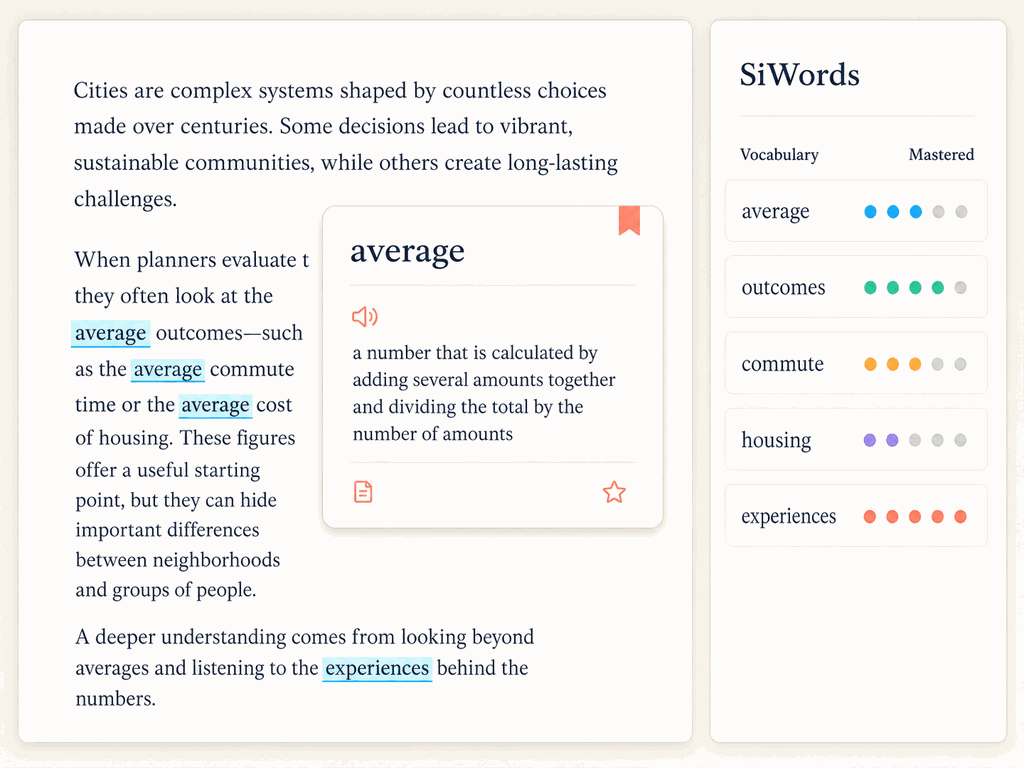
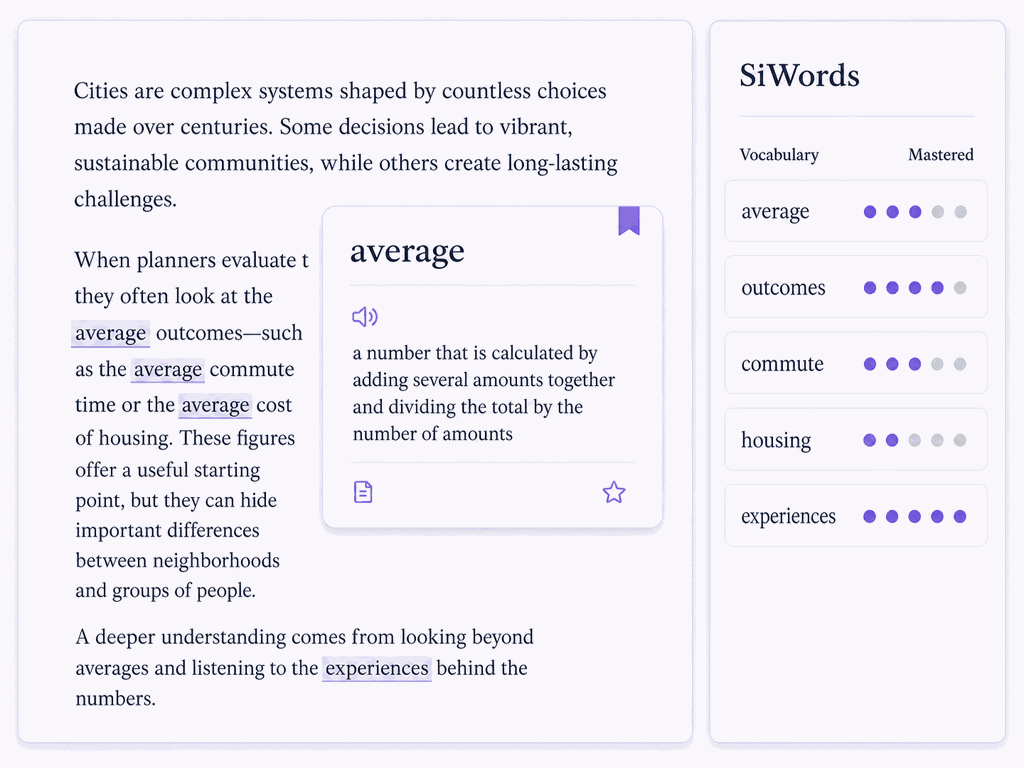
feat: refine hover placement and add amethyst theme

diff --git a/index.js b/index.js
@@ -10,7 +10,7 @@ const SECRETS_FILE = "siwords-secrets.json";
 const DOCK_TYPE = "siwords-vocabulary-dock";
 const MANAGER_TAB_TYPE = "siwords-library-tab";
 const SCHEMA_VERSION = 5;
-const PLUGIN_VERSION = "0.6.0";
+const PLUGIN_VERSION = "0.6.1";
 const MAX_BACKUPS = 10;
 const PAGE_SIZE = 20;
 const DOCK_PAGE_SIZE = 12;
@@ -170,6 +170,16 @@ function renderMarkdown(value) {
     if (lute?.Md2HTML) return sanitizeRenderedHTML(lute.Md2HTML(markdown));
   } catch (_) {}
   return fallbackMarkdown(markdown);
+}
+function chooseFloatingPlacement(options={}) {
+  const belowSpace=Math.max(0,Number(options.belowSpace)||0);
+  const aboveSpace=Math.max(0,Number(options.aboveSpace)||0);
+  const desiredHeight=Math.max(32,Number(options.desiredHeight)||360);
+  const explicit=options.placement==="above"||options.placement==="below"?options.placement:"";
+  if(explicit)return explicit;
+  const minVisibleHeight=Math.min(desiredHeight,Math.max(120,Number(options.minVisibleHeight)||220));
+  if(options.preferBelow&&belowSpace>=minVisibleHeight)return "below";
+  return belowSpace>=desiredHeight||belowSpace>=aboveSpace?"below":"above";
 }
 function parseDefinitionSections(value) {
   const raw = String(value || "").replace(/\r\n?/g, "\n");
@@ -1212,7 +1222,7 @@ class SiWordsPlugin extends Plugin {
     </div>`;
   }
   aboutHTML() {
-    return `<div class="siwords-about"><h3>SiWords 0.6.0</h3><p>使用插件结构化数据作为唯一可信来源，管理页只是编辑界面，不生成第二份可编辑词库文档。</p><ul><li>多生词本、颜色、别名和掌握状态</li><li>划词、右键和命令面板添加</li><li>思源文档及文字层 PDF 高亮</li><li>悬停释义、当前文档侧栏和 TTS</li><li>插件独立 API 或思源当前模型生成上下文释义</li><li>写入恢复、滚动备份、回收站、导入导出</li><li>大词库分页、空闲时高亮与按版本自检，减少主线程长任务</li><li>公网 AI 与自定义发音地址强制使用 HTTPS</li></ul><p class="siwords-muted">不包含 Canvas、扫描 PDF OCR、移动端完整交互和多设备逐词自动合并。</p></div>`;
+    return `<div class="siwords-about"><h3>SiWords 0.6.1</h3><p>使用插件结构化数据作为唯一可信来源，管理页只是编辑界面，不生成第二份可编辑词库文档。</p><ul><li>多生词本、颜色、别名和掌握状态</li><li>划词、右键和命令面板添加</li><li>思源文档及文字层 PDF 高亮</li><li>悬停释义、当前文档侧栏和 TTS</li><li>插件独立 API 或思源当前模型生成上下文释义</li><li>写入恢复、滚动备份、回收站、导入导出</li><li>大词库分页、空闲时高亮与按版本自检，减少主线程长任务</li><li>公网 AI 与自定义发音地址强制使用 HTTPS</li></ul><p class="siwords-muted">不包含 Canvas、扫描 PDF OCR、移动端完整交互和多设备逐词自动合并。</p></div>`;
   }
   bindManager(root) {
     root.querySelectorAll("[data-view]").forEach((button)=>button.addEventListener("click",()=>{this.syncDraftFromForm(root);this.managerView=button.dataset.view;this.managerPage=0;this.renderManager();}));
@@ -1745,7 +1755,11 @@ class SiWordsPlugin extends Plugin {
     let left=options.alignStart?x:x+gap;
     if(left+estimatedWidth>viewportRight-margin)left=options.alignStart?viewportRight-margin-estimatedWidth:x-estimatedWidth-gap;
     left=Math.max(viewportLeft+margin,Math.min(left,viewportRight-margin-estimatedWidth));
-    const placement=options.placement==="above"||options.placement==="below"?options.placement:(y+gap+estimatedHeight<=viewportBottom-margin?"below":"above");
+    const belowSpace=Math.max(0,viewportBottom-margin-y-gap);
+    const aboveSpace=Math.max(0,y-gap-(viewportTop+margin));
+    const placement=chooseFloatingPlacement({...options,belowSpace,aboveSpace,desiredHeight:estimatedHeight});
+    const availableHeight=Math.max(32,placement==="below"?belowSpace:aboveSpace);
+    element.style.setProperty("--siwords-floating-max-height",`${Math.floor(availableHeight)}px`);
     element.style.position="fixed";
     element.style.left=`${Math.round(left)}px`;
     if(placement==="above"){
@@ -1757,7 +1771,7 @@ class SiWordsPlugin extends Plugin {
     }
     element.style.visibility="";
     element.dataset.placement=placement;
-    return {left,top:y,width:estimatedWidth,height:estimatedHeight,placement,provisional:true};
+    return {left,top:y,width:estimatedWidth,height:Math.min(estimatedHeight,availableHeight),availableHeight,placement,provisional:true};
   }
   positionFloatingElement(element,anchorX,anchorY,options={}){
     if(!element)return null;
@@ -1769,6 +1783,13 @@ class SiWordsPlugin extends Plugin {
     const viewportRight=metrics.right;const viewportBottom=metrics.bottom;
     const x=Number.isFinite(Number(anchorX))?Number(anchorX):viewportLeft+margin;
     const y=Number.isFinite(Number(anchorY))?Number(anchorY):viewportTop+margin;
+    const belowSpace=Math.max(0,viewportBottom-margin-y-gap);
+    const aboveSpace=Math.max(0,y-gap-(viewportTop+margin));
+    const lockedPlacement=options.placement==="above"||options.placement==="below"?options.placement:"";
+    if(lockedPlacement){
+      const availableHeight=Math.max(32,lockedPlacement==="below"?belowSpace:aboveSpace);
+      element.style.setProperty("--siwords-floating-max-height",`${Math.floor(availableHeight)}px`);
+    }
     element.style.visibility="hidden";
     element.style.transform="none";
     element.style.left=`${viewportLeft+margin}px`;
@@ -1781,14 +1802,16 @@ class SiWordsPlugin extends Plugin {
     if(left+width>viewportRight-margin)left=options.alignStart?viewportRight-margin-width:x-width-gap;
     left=Math.max(viewportLeft+margin,Math.min(left,viewportRight-margin-width));
     const reserveHeight=Math.max(height,Math.min(viewportHeight-margin*2,Number(options.reserveHeight)||0));
-    const placement=options.placement==="above"||options.placement==="below"?options.placement:(y+gap+reserveHeight<=viewportBottom-margin?"below":"above");
+    const placement=chooseFloatingPlacement({...options,placement:lockedPlacement,belowSpace,aboveSpace,desiredHeight:reserveHeight});
+    const availableHeight=Math.max(32,placement==="below"?belowSpace:aboveSpace);
+    element.style.setProperty("--siwords-floating-max-height",`${Math.floor(availableHeight)}px`);
     let top=placement==="above"?y-height-gap:y+gap;
     top=Math.max(viewportTop+margin,Math.min(top,viewportBottom-margin-height));
     element.style.left=`${Math.round(left)}px`;
     element.style.top=`${Math.round(top)}px`;
     element.style.visibility="";
     element.dataset.placement=placement;
-    return {left,top,width,height,placement};
+    return {left,top,width,height,availableHeight,placement};
   }
   observeFloatingElement(element,anchorX,anchorY,options={}){
     if(!element)return;
@@ -1832,7 +1855,7 @@ class SiWordsPlugin extends Plugin {
     const pop=document.createElement("div");pop.className="siwords-popover siwords-ui";
     if(this.warmingFloatingSurface){pop.style.opacity="0";pop.style.pointerEvents="none";pop.setAttribute("aria-hidden","true");}
     pop.dataset.wordId=word.id;this.activePopoverWordId=word.id;
-    pop.innerHTML=`<div class="siwords-popover__head"><span class="siwords-dot" style="background:${COLORS[this.entryColor(word)]}"></span><strong>${escapeHTML(word.word)}</strong><button data-action="speak" title="发音">🔊</button></div>${this.definitionHTML(word)}${word.sentence?`<div class="siwords-context">${escapeHTML(word.sentence)}</div>`:""}${word.sourceTitle?`<button type="button" class="siwords-source" data-action="source">来源：${escapeHTML(word.sourceTitle)}</button>`:""}<div class="siwords-popover__actions"><button data-action="master">${word.mastered?"取消掌握":"标记掌握"}</button><button data-action="edit">编辑</button></div>`;
+    pop.innerHTML=`<div class="siwords-popover__head"><span class="siwords-dot" style="background:${COLORS[this.entryColor(word)]}"></span><strong>${escapeHTML(word.word)}</strong><button data-action="speak" title="发音" aria-label="播放 ${escapeHTML(word.word)} 的发音">🔊</button></div>${this.definitionHTML(word)}${word.sentence?`<div class="siwords-context">${escapeHTML(word.sentence)}</div>`:""}<div class="siwords-popover__footer">${word.sourceTitle?`<button type="button" class="siwords-source" data-action="source" title="打开来源">来源：${escapeHTML(word.sourceTitle)}</button>`:""}<div class="siwords-popover__actions"><button data-action="master">${word.mastered?"取消掌握":"标记掌握"}</button><button data-action="edit">编辑</button></div></div>`;
     pop.addEventListener("mouseenter",()=>{if(this.hideTimer)window.clearTimeout(this.hideTimer);this.hideTimer=null;});
     pop.addEventListener("mouseleave",()=>this.hidePopoverSoon());
     this.bindSectionTabs(pop);
@@ -1841,8 +1864,8 @@ class SiWordsPlugin extends Plugin {
     pop.querySelector('[data-action="edit"]').addEventListener("click",()=>{this.hidePopover();this.openWordDialog(word);});
     pop.querySelector('[data-action="source"]')?.addEventListener("click",()=>this.openWordSource(word));
     document.body.appendChild(pop);this.activePopoverElement=pop;
-    const options={alignStart:true,gap:8};
-    const placed=this.provisionalFloatingElement(pop,x,y,{...options,estimatedWidth:360,estimatedHeight:440});
+    const options={alignStart:true,gap:10,preferBelow:true,minVisibleHeight:220};
+    const placed=this.provisionalFloatingElement(pop,x,y,{...options,estimatedWidth:360,estimatedHeight:390});
     this.observeFloatingElement(pop,x,y,{...options,placement:placed?.placement});
     return pop;
   }
@@ -2103,5 +2126,5 @@ class SiWordsPlugin extends Plugin {
   }
 }
 
-SiWordsPlugin.__test={canonicalKey,normalizeSearchText,normalizeAliases,defaultSettings,defaultState,normalizeState,normalizeWord,normalizeBook,validateRawState,validateState,chooseStatePayload,parsePatternPhrase,parseDefinitionSections,isDocumentInScope,buildMatcher,findTermMatches,extractSentence,applyTemplate,safeRemoteUrl,safeTtsUrl,redactSecret,deleteWordState,restoreWordState,renderMarkdown,entryColor,normalizeAIProvider,detectAIType,deepMergeSafe,mergeExtraParams,shouldRetry,buildAIRequest,parseAIResponse};
+SiWordsPlugin.__test={canonicalKey,normalizeSearchText,normalizeAliases,defaultSettings,defaultState,normalizeState,normalizeWord,normalizeBook,validateRawState,validateState,chooseStatePayload,parsePatternPhrase,parseDefinitionSections,isDocumentInScope,buildMatcher,findTermMatches,extractSentence,applyTemplate,safeRemoteUrl,safeTtsUrl,redactSecret,deleteWordState,restoreWordState,renderMarkdown,chooseFloatingPlacement,entryColor,normalizeAIProvider,detectAIType,deepMergeSafe,mergeExtraParams,shouldRetry,buildAIRequest,parseAIResponse};
 module.exports=SiWordsPlugin;

diff --git a/index.css b/index.css
@@ -598,23 +598,24 @@
   .siwords-translate-popover,
   .siwords-fallback-mark
 ) {
-  --siwords-panel: var(--b3-theme-background);
-  --siwords-surface: var(--b3-theme-surface);
-  --siwords-surface-muted: color-mix(in srgb, var(--b3-theme-surface) 72%, var(--b3-theme-background));
-  --siwords-border: color-mix(in srgb, var(--b3-theme-on-surface) 18%, var(--b3-border-color));
+  --siwords-panel: color-mix(in srgb, #7357e8 2%, var(--b3-theme-background));
+  --siwords-surface: color-mix(in srgb, #7357e8 4%, var(--b3-theme-surface));
+  --siwords-surface-muted: color-mix(in srgb, #7357e8 9%, var(--b3-theme-background));
+  --siwords-border: color-mix(in srgb, #7357e8 28%, var(--b3-border-color));
   --siwords-text: var(--b3-theme-on-background);
   --siwords-muted: var(--b3-theme-on-surface);
-  --siwords-accent: var(--b3-theme-primary);
-  --siwords-accent-soft: color-mix(in srgb, var(--b3-theme-primary) 13%, transparent);
-  --siwords-hover: var(--b3-list-hover);
+  --siwords-accent: #7357e8;
+  --siwords-accent-strong: #5b3fd6;
+  --siwords-accent-soft: color-mix(in srgb, #7357e8 13%, transparent);
+  --siwords-hover: color-mix(in srgb, #7357e8 10%, var(--b3-list-hover));
   --siwords-danger: var(--b3-card-error-color, #c73e32);
   --siwords-danger-soft: var(--b3-card-error-background, color-mix(in srgb, #c73e32 12%, transparent));
-  --siwords-card-shadow: 0 2px 7px rgba(0, 0, 0, .07);
-  --siwords-elevated-shadow: var(--b3-dialog-shadow, 0 10px 30px rgba(0, 0, 0, .18));
+  --siwords-card-shadow: 0 2px 8px rgba(68, 45, 125, .08);
+  --siwords-elevated-shadow: 0 18px 45px rgba(66, 42, 124, .17), 0 4px 13px rgba(66, 42, 124, .10);
   --siwords-radius-sm: 6px;
   --siwords-radius-md: 9px;
   --siwords-radius-lg: 12px;
-  --siwords-focus-ring: 0 0 0 2px color-mix(in srgb, var(--b3-theme-primary) 38%, transparent);
+  --siwords-focus-ring: 0 0 0 3px color-mix(in srgb, #7357e8 30%, transparent);
   color-scheme: inherit;
 }
 
@@ -626,10 +627,16 @@
   .siwords-translate-popover,
   .siwords-fallback-mark
 ) {
-  --siwords-surface-muted: color-mix(in srgb, var(--b3-theme-surface) 84%, var(--b3-theme-background));
-  --siwords-border: color-mix(in srgb, var(--b3-theme-on-surface) 25%, var(--b3-border-color));
-  --siwords-card-shadow: 0 2px 8px rgba(0, 0, 0, .24);
-  --siwords-elevated-shadow: var(--b3-dialog-shadow, 0 12px 34px rgba(0, 0, 0, .42));
+  --siwords-panel: color-mix(in srgb, #a78bfa 5%, var(--b3-theme-background));
+  --siwords-surface: color-mix(in srgb, #a78bfa 8%, var(--b3-theme-surface));
+  --siwords-surface-muted: color-mix(in srgb, #a78bfa 12%, var(--b3-theme-background));
+  --siwords-border: color-mix(in srgb, #a78bfa 34%, var(--b3-border-color));
+  --siwords-accent: #b39afb;
+  --siwords-accent-strong: #c4b5fd;
+  --siwords-accent-soft: color-mix(in srgb, #a78bfa 18%, transparent);
+  --siwords-hover: color-mix(in srgb, #a78bfa 14%, var(--b3-list-hover));
+  --siwords-card-shadow: 0 2px 9px rgba(19, 12, 38, .32);
+  --siwords-elevated-shadow: 0 20px 52px rgba(10, 5, 24, .48), 0 4px 15px rgba(58, 38, 104, .28);
 }
 
 .siwords-ui {
@@ -1872,4 +1879,148 @@
 
 .siwords-translate-popover {
   box-shadow: 0 10px 24px rgba(20, 28, 42, .14), 0 2px 7px rgba(20, 28, 42, .07);
+}
+
+/* 0.6.1: amethyst floating surfaces with a compact, anchored footer. */
+.siwords-popover {
+  max-height: min(420px, calc(100dvh - 24px), var(--siwords-floating-max-height, 420px));
+  border-color: color-mix(in srgb, var(--siwords-accent) 55%, var(--siwords-border));
+  border-radius: 18px;
+  background: var(--siwords-surface);
+  box-shadow: var(--siwords-elevated-shadow);
+}
+
+.siwords-popover__head {
+  min-height: 48px;
+  padding: 10px 13px 10px 14px;
+  border-bottom-color: color-mix(in srgb, var(--siwords-accent) 24%, var(--siwords-border));
+  background: linear-gradient(135deg, color-mix(in srgb, var(--siwords-accent) 15%, var(--siwords-surface)), var(--siwords-surface) 72%);
+}
+
+.siwords-popover__head strong {
+  color: var(--siwords-accent-strong);
+  font-size: 17px;
+  letter-spacing: -.01em;
+}
+
+.siwords-popover__head button {
+  min-width: 32px;
+  min-height: 32px;
+  border: 1px solid color-mix(in srgb, var(--siwords-accent) 18%, transparent);
+  border-radius: 10px;
+  color: var(--siwords-accent-strong);
+  background: var(--siwords-accent-soft);
+}
+
+.siwords-popover__head button:hover {
+  color: var(--siwords-accent-strong);
+  background: color-mix(in srgb, var(--siwords-accent) 20%, transparent);
+}
+
+.siwords-popover > .siwords-definition,
+.siwords-popover .siwords-section-panel {
+  padding: 13px 15px;
+  color: var(--siwords-text);
+}
+
+.siwords-popover .siwords-context {
+  margin: 0 14px 10px;
+  border: 1px solid color-mix(in srgb, var(--siwords-accent) 13%, var(--siwords-border));
+  border-radius: 11px;
+  background: color-mix(in srgb, var(--siwords-accent) 6%, var(--siwords-surface-muted));
+}
+
+.siwords-popover__footer {
+  flex: 0 0 auto;
+  margin-top: auto;
+  border-top: 1px solid color-mix(in srgb, var(--siwords-accent) 20%, var(--siwords-border));
+  background: linear-gradient(180deg, color-mix(in srgb, var(--siwords-accent) 5%, var(--siwords-surface)), color-mix(in srgb, var(--siwords-accent) 10%, var(--siwords-surface)));
+}
+
+.siwords-popover__footer .siwords-source {
+  width: calc(100% - 24px);
+  max-width: none;
+  min-height: 30px;
+  margin: 7px 12px 0;
+  padding: 5px 8px;
+  border: 0;
+  border-radius: 9px;
+  text-align: left;
+}
+
+.siwords-popover__footer .siwords-popover__actions {
+  gap: 8px;
+  padding: 8px 11px 10px;
+  border-top: 0;
+  background: transparent;
+}
+
+.siwords-popover__actions button {
+  min-height: 30px;
+  border: 1px solid color-mix(in srgb, var(--siwords-accent) 23%, transparent);
+  color: var(--siwords-accent-strong);
+  background: var(--siwords-accent-soft);
+}
+
+.siwords-popover__actions button:first-child {
+  border-color: transparent;
+  color: #fff;
+  background: linear-gradient(135deg, var(--siwords-accent), var(--siwords-accent-strong));
+  box-shadow: 0 4px 11px color-mix(in srgb, var(--siwords-accent) 24%, transparent);
+}
+
+.siwords-popover__actions button:hover {
+  border-color: color-mix(in srgb, var(--siwords-accent) 38%, transparent);
+  color: var(--siwords-accent-strong);
+  background: color-mix(in srgb, var(--siwords-accent) 19%, transparent);
+}
+
+.siwords-popover__actions button:first-child:hover {
+  border-color: transparent;
+  color: #fff;
+  background: linear-gradient(135deg, var(--siwords-accent-strong), var(--siwords-accent));
+}
+
+[data-theme-mode="dark"] .siwords-popover__actions button:first-child {
+  color: #1d1430;
+}
+
+.siwords-translate-popover,
+.siwords-float,
+.siwords-scope-picker {
+  border-color: color-mix(in srgb, var(--siwords-accent) 45%, var(--siwords-border));
+  background: var(--siwords-surface);
+  box-shadow: var(--siwords-elevated-shadow);
+}
+
+.siwords-translate-head,
+.siwords-scope-picker__header,
+.siwords-editor__head,
+.siwords-page__header {
+  border-color: color-mix(in srgb, var(--siwords-accent) 20%, var(--siwords-border));
+  background: linear-gradient(135deg, color-mix(in srgb, var(--siwords-accent) 11%, var(--siwords-surface)), var(--siwords-surface) 74%);
+}
+
+.siwords-translate-head strong,
+.siwords-scope-picker__header strong,
+.siwords-editor__head strong,
+.siwords-page__header h2 {
+  color: var(--siwords-accent-strong);
+}
+
+.siwords-nav-item:hover {
+  color: var(--siwords-accent-strong);
+  background: color-mix(in srgb, var(--siwords-accent) 8%, var(--siwords-hover));
+}
+
+.siwords-nav-item.is-active,
+.siwords-nav-item.is-active-book {
+  color: var(--siwords-accent-strong);
+  background: var(--siwords-accent-soft);
+  box-shadow: inset 3px 0 0 var(--siwords-accent);
+}
+
+.siwords-section-tab.is-active,
+.siwords-section-tab[aria-selected="true"] {
+  color: var(--siwords-accent-strong);
 }

diff --git a/CHANGELOG.md b/CHANGELOG.md
@@ -1,5 +1,13 @@
 # Changelog
 
+## 0.6.1
+
+- Added an amethyst purple visual system for definition, translation, editor, scope-picker, and vocabulary surfaces in light and dark themes.
+- Made hover cards prefer placement below the matched word whenever at least 220px of readable space is available, while retaining stable above-placement near the viewport edge.
+- Moved source metadata and mastery/edit actions into a compact anchored footer.
+- Added accessible labels, high-contrast controls, viewport-aware height limits, and pure placement regression coverage.
+- Updated the Bazaar preview image to match the new original purple interface.
+
 ## 0.6.0
 
 - Prepared the first public GitHub and SiYuan Bazaar release.

diff --git a/README.md b/README.md
@@ -1,4 +1,4 @@
-# SiWords 0.6.0
+# SiWords 0.6.1
 
 [简体中文](README.zh-CN.md)
 
@@ -21,7 +21,7 @@ SiWords is not affiliated with HiWords, Obsidian, or the SiYuan team.
 
 - SiYuan 3.7.0 or later
 - Windows desktop frontend
-- The 0.6.0 interface is Simplified Chinese; English marketplace metadata and documentation are provided
+- The 0.6.1 interface is Simplified Chinese; English marketplace metadata and documentation are provided
 - PDFs must contain a selectable text layer; scanned PDFs require OCR first
 
 The first public release deliberately does not claim support for macOS, Linux, mobile, browser frontend, Canvas, or automatic conflict merging between concurrently edited devices.

diff --git a/README.zh-CN.md b/README.zh-CN.md
@@ -1,4 +1,4 @@
-# SiWords 生词高亮 0.6.0
+# SiWords 生词高亮 0.6.1
 
 [English](README.md)
 
@@ -21,7 +21,7 @@ SiWords 不隶属于 HiWords、Obsidian 或思源笔记官方。
 
 - 思源笔记 3.7.0 及以上
 - Windows 桌面端
-- 0.6.0 界面为简体中文，同时提供英文集市元数据和说明文档
+- 0.6.1 界面为简体中文，同时提供英文集市元数据和说明文档
 - PDF 必须具有可选择的文字层；扫描 PDF 需要先 OCR
 
 首个公开版本不声明支持 macOS、Linux、移动端、浏览器前端、Canvas 或多设备同时修改的逐词自动合并。
